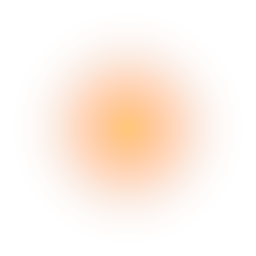
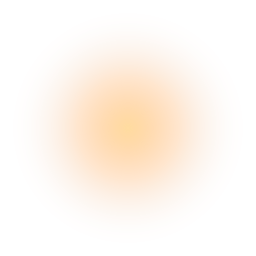
fix(hero): recenter lantern light + warm halo from neon to amber
Two issues stacked:

(1) Position drift. Re-measured the painted lantern body across
idle_01..idle_04 by taking the pixel-centroid of the lantern
silhouette restricted to x=0..30 (excludes cloak overlap on the
right). Stable result: sprite-offset (-50, +36), or node-space
(-160, +115). The previous (-144, +106) anchor was biased to the
warm-metal highlights, ~16px right of the actual body center, so the
halo's left side bled into empty space. Both PointLight2D and
LanternFlame now anchor at (-160, +115).

(2) Acidic neon yellow. Mid-halo pixels were saturating to
(255, 255, low-blue) = electric lime-yellow. Two fixes:
  - Halo and flame textures repainted with an amber-cream palette
    (CORE warm cream, MID soft amber, EDGE warm orange-brown).
    Less green channel in the bright bands so saturation lands on
    cream/white rather than yellow.
  - PointLight2D color (1, 0.7, 0.3) -> (1.0, 0.85, 0.65), more
    balanced RGB so the additive contribution doesn't crush B; energy
    4.5 -> 3.8 to back off the over-bright center.

Soft power-curve alpha falloff is unchanged.

Closes #28

Changed region(s): [[0.4062, 0.4062, 0.5938, 0.5938]]

diff --git a/scripts/make_flame.py b/scripts/make_flame.py
@@ -19,9 +19,9 @@ import numpy as np
 SIZE = 64
 OUT = "assets/effects/lantern_flame.png"
 
-CORE = np.array([255, 240, 180], dtype=np.float32)
-MID = np.array([255, 160, 60], dtype=np.float32)
-EDGE = np.array([200, 80, 20], dtype=np.float32)
+CORE = np.array([255, 230, 180], dtype=np.float32)
+MID = np.array([255, 175, 100], dtype=np.float32)
+EDGE = np.array([200, 110, 50], dtype=np.float32)
 
 
 def smoothstep(a: np.ndarray) -> np.ndarray:

diff --git a/scripts/make_lantern_halo.py b/scripts/make_lantern_halo.py
@@ -20,9 +20,9 @@ import numpy as np
 SIZE = 256
 OUT = "assets/effects/lantern_halo.png"
 
-CORE = np.array([255, 200, 120], dtype=np.float32)
-MID = np.array([255, 130, 50], dtype=np.float32)
-EDGE = np.array([180, 70, 20], dtype=np.float32)
+CORE = np.array([255, 220, 160], dtype=np.float32)
+MID = np.array([255, 170, 90], dtype=np.float32)
+EDGE = np.array([200, 110, 50], dtype=np.float32)
 
 ALPHA_CURVE = 2.4
 COLOR_BLEND_CURVE = 1.6
